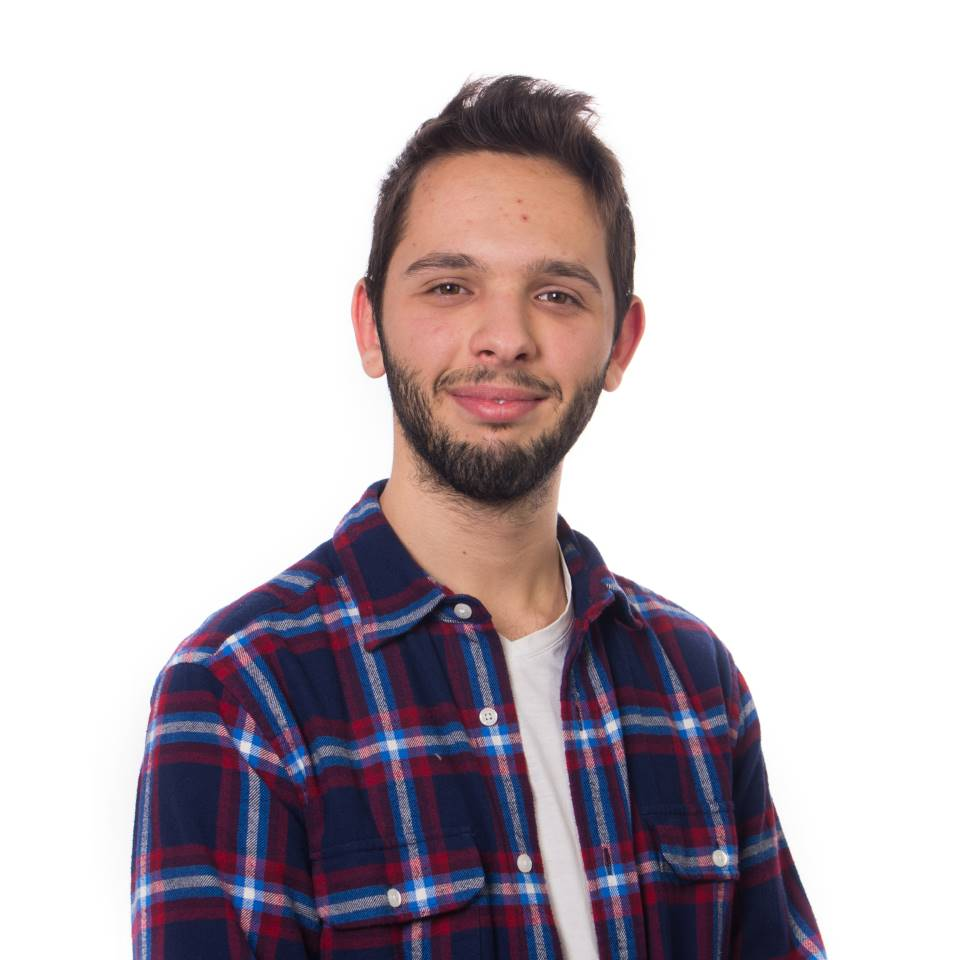
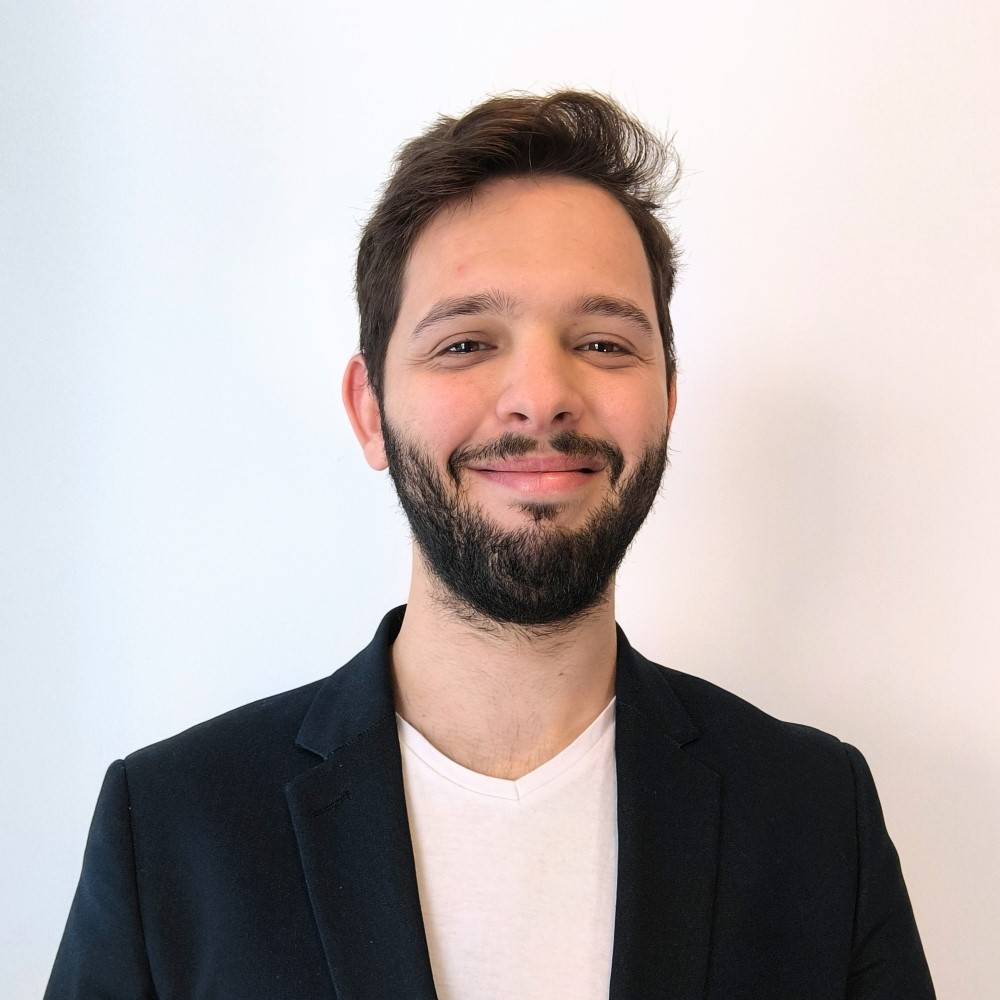
updated profile picture

diff --git a/src/routes/resume/Header.svelte b/src/routes/resume/Header.svelte
@@ -4,11 +4,10 @@
   import Link from "~icons/ph/link-duotone";
   import Linkedin from "~icons/ph/linkedin-logo-duotone";
   import Pin from "~icons/ph/map-pin-duotone";
-  import me from "./me.jpg";
 </script>
 
 <header>
-  <img src={me} alt="Me" />
+  <enhanced:img src="./me.jpg?enhanced&w=288;144" alt="Me" />
   <h1>Gautier<br />Ben Aïm</h1>
   <div class="contact">
     <ul>
@@ -51,7 +50,7 @@
     align-items: center;
     justify-content: center;
 
-    img {
+    :global(img) {
       width: 9rem;
       height: 9rem;
       border-radius: 50%;

diff --git a/src/articles/2024-01-03-search-engine-in-a-day/index.md b/src/articles/2024-01-03-search-engine-in-a-day/index.md
@@ -8,10 +8,6 @@ description: I built a search engine in a day for the very website you are readi
   import Measure from './Measure.svelte'
   import Mermaid from '$lib/Mermaid.svelte'
 
-  import autocomplete from './autocomplete.png?enhanced&w=800';
-  import searchRanking from './search-ranking.png?enhanced&w=800';
-  import searchFormula from './search-formula.png?enhanced&w=800';
-
   const search = import('$lib/search')
 </script>
 
@@ -189,18 +185,18 @@ While indexing and searching are the core features of a search engine, there are
 - The search input should have auto-completion, helping the user to find relevant keywords.
 
   <figure>
-  <enhanced:img src={autocomplete} alt="Screenshot of the autocompletion feature" />
+  <enhanced:img src="./autocomplete.png?enhanced&w=800" alt="Screenshot of the autocompletion feature" />
   <figcaption>The input field should suggest a coherent search query</figcaption>
   </figure>
 
 - The search results should contain a relevant extract of the article, with the matching keywords highlighted.
 
   <figure>
-  <enhanced:img src={searchRanking} alt="Screenshot of the extract feature" />
+  <enhanced:img src="./search-ranking.png?enhanced&w=800" alt="Screenshot of the extract feature" />
   <figcaption>The search result should contain a relevant extract of the article</figcaption>
   </figure>
   <figure>
-  <enhanced:img src={searchFormula} alt="Another screenshot of the extract feature" />
+  <enhanced:img src="./search-formula.png?enhanced&w=800" alt="Another screenshot of the extract feature" />
   <figcaption><em>search</em> appears many time in the article, but the closest highlights are picked</figcaption>
   </figure>
 

diff --git a/src/articles/2023-12-07-tailwind/index.md b/src/articles/2023-12-07-tailwind/index.md
@@ -5,7 +5,6 @@ description: I gave Tailwind a fair chance, and I now hate every second of it.
 
 <script context="module">
   import banner from './banner.png?enhanced&w=1600;800';
-  import overTime from './over-time.png?enhanced&w=1600;800';
   import Tldr from '$lib/Tldr.svelte';
   export { banner };
 </script>
@@ -44,7 +43,7 @@ The banner of this article, [the cover image of the official Tailwind VS Code ex
 Please enjoy this humorous graph by [Lea Verou](https://twitter.com/LeaVerou/status/1306001020636540934), member of the W3C CSS Working Group:
 
 <figure>
-<enhanced:img src={overTime} alt="Code readability becomes the most important developer concern over time" />
+<enhanced:img src="./over-time.png?enhanced&w=1600;800" alt="Code readability becomes the most important developer concern over time" />
 </figure>
 
 I view Tailwind as the lowest point of this graph. I can't imagine a more unreadable way to write styles.
